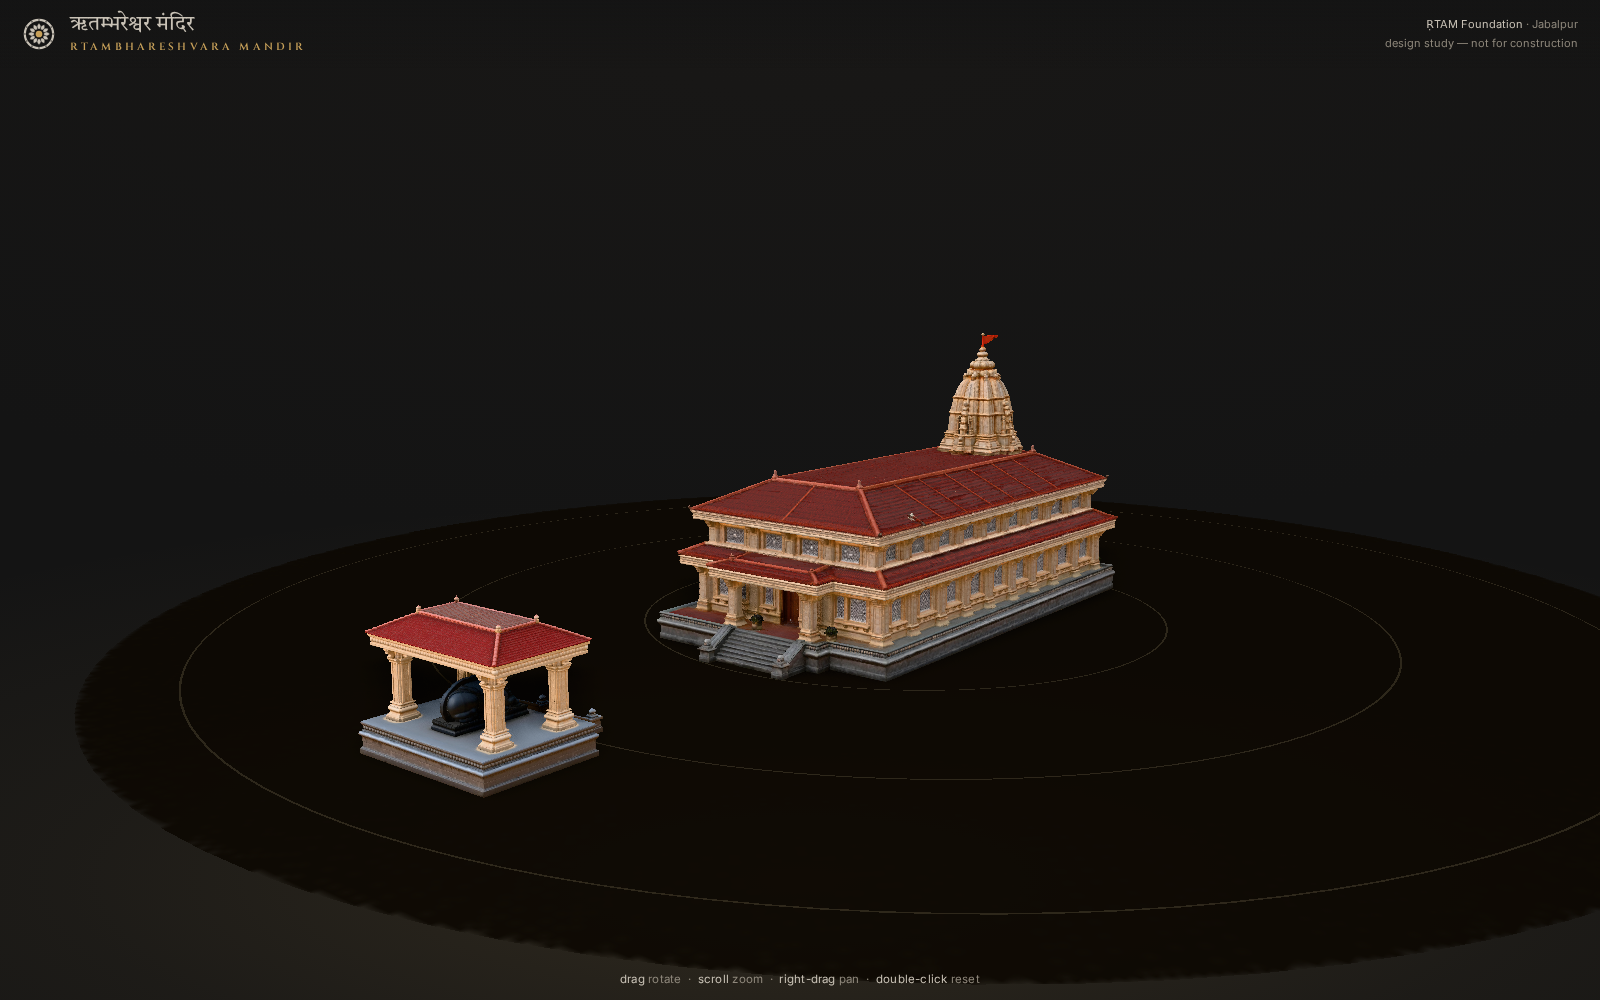
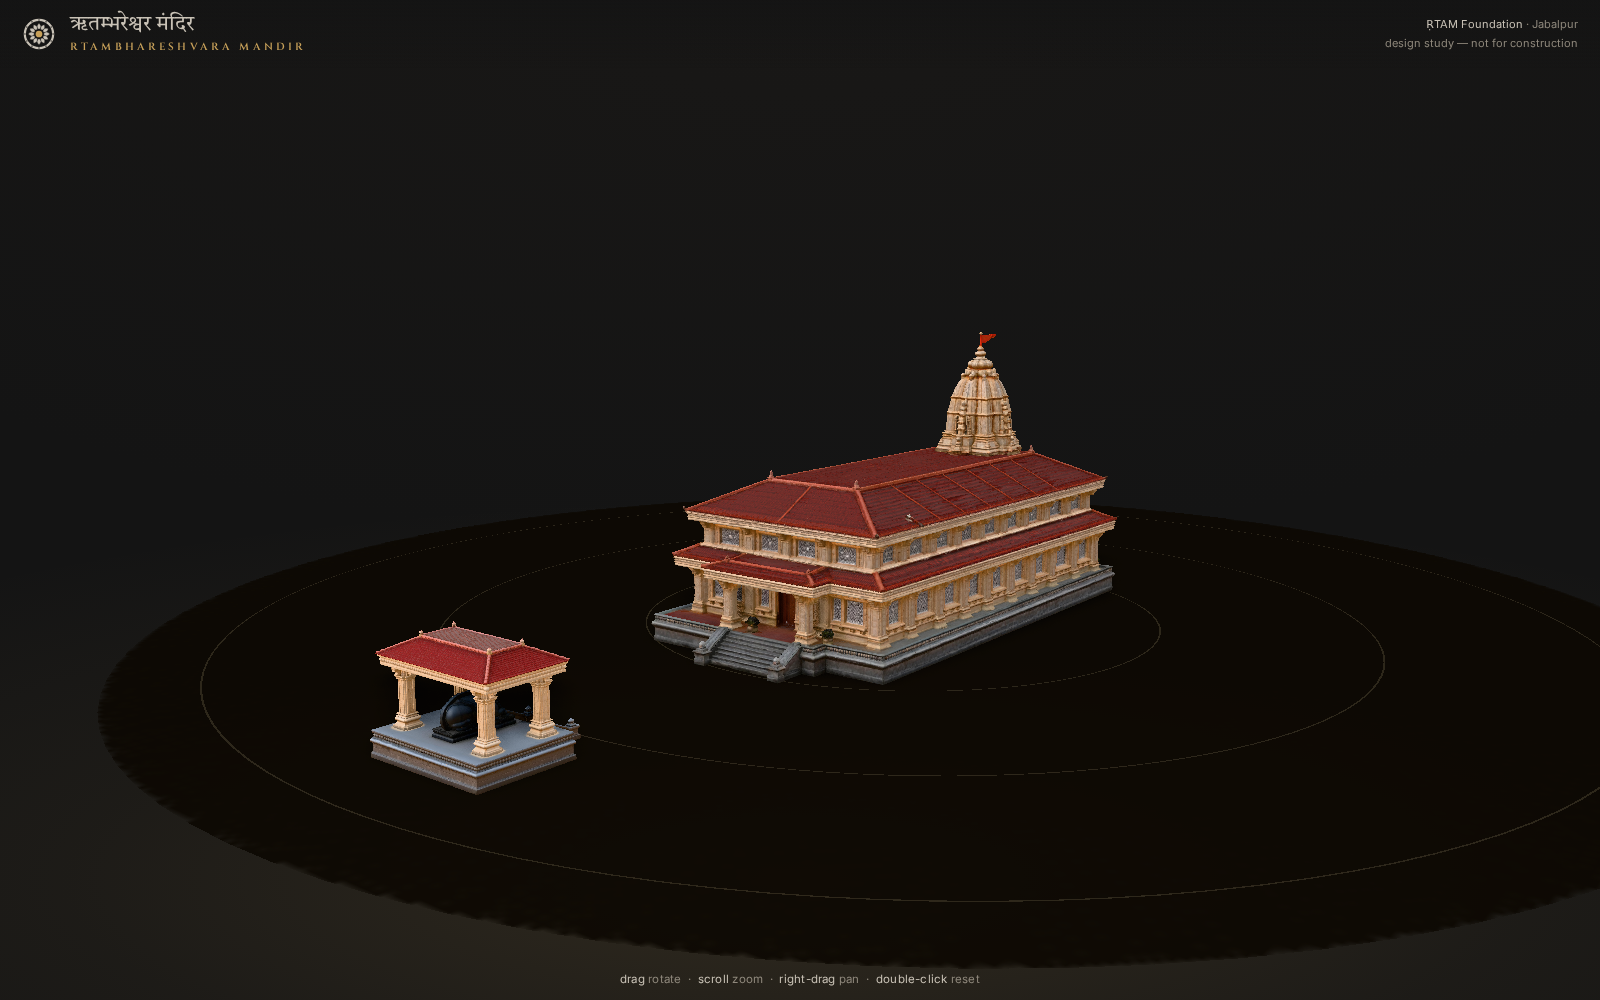
temple-3d: the porch meets the chhatri — measured, not eyeballed
Founder's call: keep Nandi as he is, grow the main temple until its
two-pillar porch aligns with Nandi's pavilion. Side-elevation pixel
measurement gave ridge 53 px vs 45 px and eave 33 vs 28 over the same
ground — both ratios 1.18. TEMPLE_K = 1.18 applied on both pages;
re-measured after: both ridges land on the same row. NANDI.z scales
with K (same real-world gap), stage floor widened to 3.3, darshan
camera legs scale with K so every framing holds. Centering verified in
plan: temple roof center 800.0 px vs Nandi 800.5 — axes coincide within
half a pixel; the different stair widths were the off-center illusion.

diff --git a/temple-3d/darshan.html b/temple-3d/darshan.html
@@ -249,12 +249,12 @@ function radialTexture() {
   return new THREE.CanvasTexture(cv);
 }
 const disc = new THREE.Mesh(
-  new THREE.CircleGeometry(2.4, 96).rotateX(-Math.PI / 2),
+  new THREE.CircleGeometry(3.3, 96).rotateX(-Math.PI / 2),
   new THREE.MeshBasicMaterial({ color: 0x1e1c19, transparent: true, alphaMap: radialTexture(), opacity: 0.9 })
 );
 disc.position.y = -0.006;
 scene.add(disc);
-for (const r of [0.9, 1.55, 2.2]) {
+for (const r of [1.15, 2.05, 2.95]) {
   const ring = new THREE.Mesh(
     new THREE.RingGeometry(r - 0.0035, r + 0.0035, 128).rotateX(-Math.PI / 2),
     new THREE.MeshBasicMaterial({ color: 0x8f887c, transparent: true, opacity: 0.16 })
@@ -297,7 +297,8 @@ function setupMaterials(root) {
     }
   });
 }
-const NANDI = { height: 0.42, z: 2.0, headingY: Math.PI }; // as in the viewer
+const TEMPLE_K = 1.18; // measured: porch roofline meets the chhatri (see index.html)
+const NANDI = { height: 0.42, z: 2.0 * TEMPLE_K, headingY: Math.PI }; // as in the viewer
 const loadGlb = (url, onProgress) =>
   new Promise((resolve, reject) => loader.load(url, resolve, onProgress, reject));
 const prog = { l: [0, 0], t: [0, 0] };
@@ -317,7 +318,7 @@ Promise.all([
   const box = new THREE.Box3().setFromObject(gltf.scene);
   const size = box.getSize(new THREE.Vector3());
   const center = box.getCenter(new THREE.Vector3());
-  const scale = 2 / Math.max(size.x, size.z);
+  const scale = (2 / Math.max(size.x, size.z)) * TEMPLE_K;
   gltf.scene.scale.setScalar(scale);
   gltf.scene.position.set(-center.x * scale, -box.min.y * scale, -center.z * scale);
   scene.add(gltf.scene);
@@ -374,8 +375,8 @@ function camAt(p) {
   const c = SCENES[i].cam;
   const az = (lerp(c.az0, c.az1, t) * Math.PI) / 180;
   const el = (lerp(c.el0, c.el1, t) * Math.PI) / 180;
-  const d = lerp(c.d0, c.d1, t);
-  const ty = lerp(c.ty0, c.ty1, t);
+  const d = lerp(c.d0, c.d1, t) * TEMPLE_K;
+  const ty = lerp(c.ty0, c.ty1, t) * TEMPLE_K;
   const target = new THREE.Vector3(0, ty, 0);
   camera.position.set(
     Math.sin(az) * Math.cos(el) * d,
@@ -415,7 +416,7 @@ document.addEventListener("click", (e) => {
     controls.enableDamping = true;
     controls.dampingFactor = 0.08;
     controls.maxPolarAngle = Math.PI * 0.52;
-    controls.target.set(0, 0.5, 0);
+    controls.target.set(0, 0.5 * TEMPLE_K, 0);
   }
   controls.enabled = true;
   e.target.textContent = "BACK TO THE WALK";

diff --git a/temple-3d/index.html b/temple-3d/index.html
@@ -150,12 +150,12 @@ function radialTexture() {
   return new THREE.CanvasTexture(cv);
 }
 const disc = new THREE.Mesh(
-  new THREE.CircleGeometry(2.9, 96).rotateX(-Math.PI / 2),
+  new THREE.CircleGeometry(3.3, 96).rotateX(-Math.PI / 2),
   new THREE.MeshBasicMaterial({ color: 0x1e1c19, transparent: true, alphaMap: radialTexture(), opacity: 0.9 })
 );
 disc.position.y = -0.006;
 scene.add(disc);
-for (const r of [1.0, 1.8, 2.6]) {
+for (const r of [1.15, 2.05, 2.95]) {
   const ring = new THREE.Mesh(
     new THREE.RingGeometry(r - 0.0035, r + 0.0035, 128).rotateX(-Math.PI / 2),
     new THREE.MeshBasicMaterial({ color: 0x8f887c, transparent: true, opacity: 0.16 })
@@ -165,11 +165,15 @@ for (const r of [1.0, 1.8, 2.6]) {
 }
 
 let homePos = null, homeTarget = null;
+/* measured 2026-08-21 (side-elevation pixels): Nandi ridge 53 px vs
+   temple-porch ridge 45 px over the same ground → the temple grows
+   ×1.18 so the two-pillar porch stands eye-to-eye with the chhatri. */
+const TEMPLE_K = 1.18;
 function normalizeModel(object) {
   const box = new THREE.Box3().setFromObject(object);
   const size = box.getSize(new THREE.Vector3());
   const center = box.getCenter(new THREE.Vector3());
-  const scale = 2 / Math.max(size.x, size.z); // footprint → 2 stage units
+  const scale = (2 / Math.max(size.x, size.z)) * TEMPLE_K;
   object.scale.setScalar(scale);
   object.position.set(-center.x * scale, -box.min.y * scale, -center.z * scale);
 }
@@ -243,7 +247,7 @@ function setupMaterials(root) {
    Tunables in STAGE units (the temple's 52 ft width = 2.0 units,
    so 1 ft ≈ 0.03846): height ≈ 11 ft pavilion, ≈ 22 ft before the
    porch line, centered on the door axis. */
-const NANDI = { height: 0.42, z: 2.0, headingY: Math.PI };
+const NANDI = { height: 0.42, z: 2.0 * TEMPLE_K, headingY: Math.PI };
 
 function placeNandi(root) {
   const box = new THREE.Box3().setFromObject(root);
